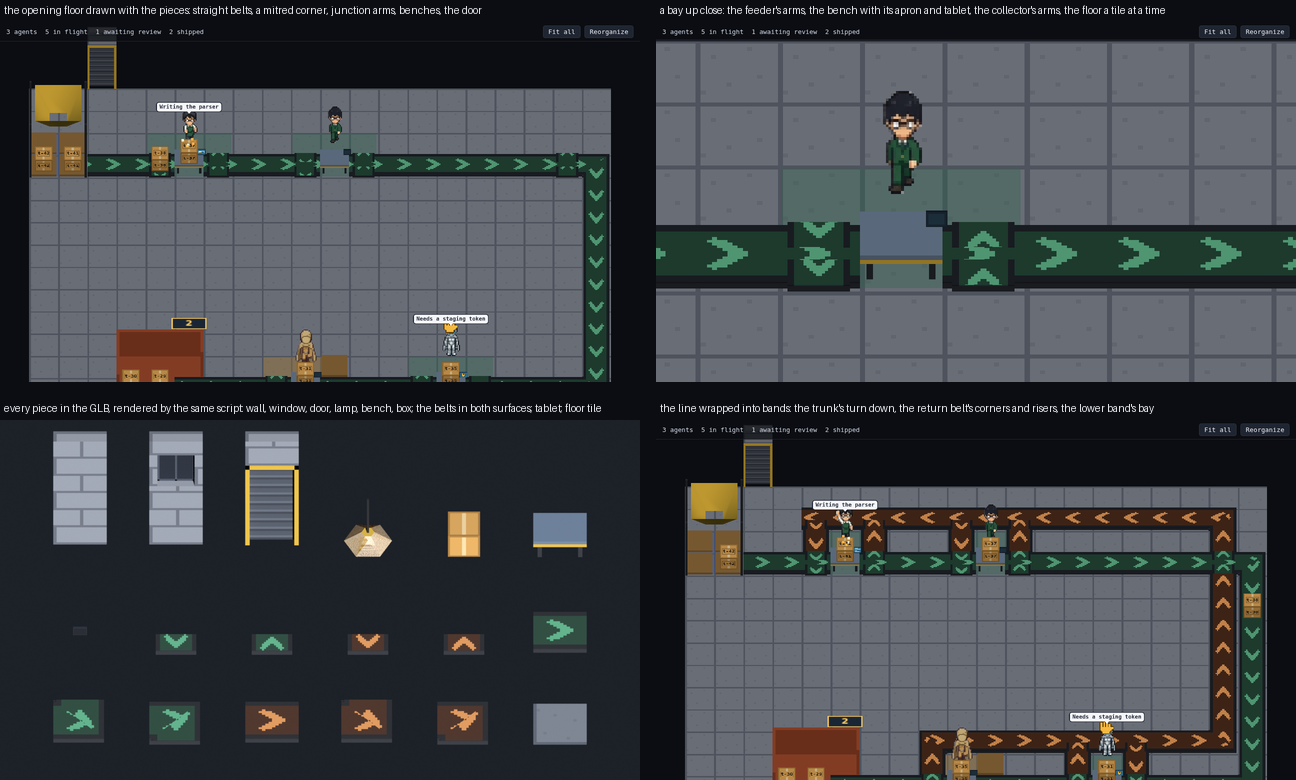
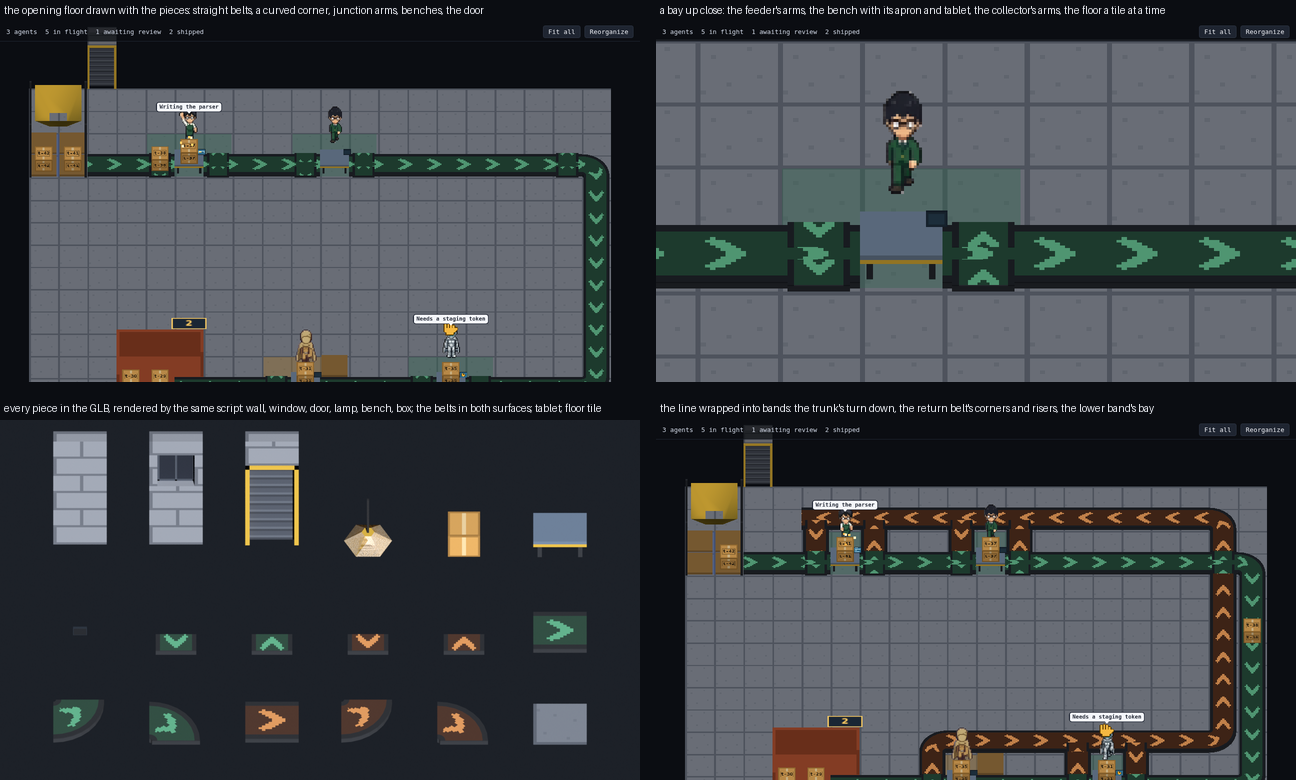
Corners curve (#13)
The corner belt pieces turn about the tile's inner corner as a quarter
circle instead of a mitred square: the slab, the rims and the surface
follow the curve and the chevrons fan across it, meeting the straights at
the tile's edges as before. Rebuilt pieces.glb, with the assets list and
the milestone picture updated to match.

diff --git a/tools/blender/build_pieces.py b/tools/blender/build_pieces.py
@@ -248,33 +248,54 @@ def belt_straight(name, mats, surface):
 
 
 def belt_corner(name, mats, surface, turn):
-    """A mitred turn: in along +x, out toward -z for a left turn, +z for a right one, the chevrons turning at the diagonal."""
+    """A quarter turn about the tile's inner corner: in along +x, curving to -z for a left turn, +z for a right one. The slab, the rims and the surface follow the curve, the chevrons fanning out across it."""
     s = 1 if turn == "left" else -1
     piece = Piece(name)
+    steps = 8
+    inner, outer = 0.05, 0.95
+    body_top, rim_top = BELT_H - 0.02, BELT_H
 
-    def p(x, y, z):
-        return (x, y, s * z)
+    def at(r, i, y):
+        """The point r from the inner corner, i steps into the turn, at height y."""
+        a = (math.pi / 2) * i / steps
+        return (-0.5 + r * math.sin(a), y, s * (-0.5 + r * math.cos(a)))
 
-    def quad(points, outward, material, uvs=None):
-        piece.face([p(*pt) for pt in points], (outward[0], outward[1], s * outward[2]), material, uvs)
+    def radial(i, sign):
+        """The direction out of the turn, or into it for -1, midway through step i."""
+        a = (math.pi / 2) * (i + 0.5) / steps
+        return (sign * math.sin(a), 0, s * sign * math.cos(a))
 
-    def box(x0, x1, y0, y1, z0, z1, material):
-        piece.box(x0, x1, y0, y1, min(s * z0, s * z1), max(s * z0, s * z1), material)
+    def ring(r0, r1, y, up, material, uv=None):
+        """A flat ring between two radii at one height, one quad a step, facing up or down."""
+        for i in range(steps):
+            points = [at(r0, i, y), at(r1, i, y), at(r1, i + 1, y), at(r0, i + 1, y)]
+            uvs = [uv(i, r0), uv(i, r1), uv(i + 1, r1), uv(i + 1, r0)] if uv else None
+            piece.face(points, (0, up, 0), material, uvs)
 
-    box(-0.5, 0.45, 0, BELT_H - 0.02, -0.5, 0.45, mats["dark-steel"])
-    # The outer rim runs along the in leg's outer side and up the out leg's outer side; the inner rim meets at the inner corner.
-    box(-0.5, 0.35, BELT_H - 0.02, BELT_H, 0.35, 0.45, mats["rim"])
-    box(0.35, 0.45, BELT_H - 0.02, BELT_H, -0.5, 0.45, mats["rim"])
-    box(-0.5, -0.35, BELT_H - 0.02, BELT_H, -0.45, -0.35, mats["rim"])
-    box(-0.45, -0.35, BELT_H - 0.02, BELT_H, -0.5, -0.45, mats["rim"])
-    y = BELT_H
-    # The in leg up to the mitre, the two halves of the mitred square, and the out leg from it. Along the belt's
-    # middle u runs 0 to 1 as on a straight: along +x on the in leg's half, along -z on the out leg's, so the
-    # chevrons fold at the diagonal, short along the inner edge and long along the outer.
-    quad([(-0.5, y, -0.35), (-0.35, y, -0.35), (-0.35, y, 0.35), (-0.5, y, 0.35)], (0, 1, 0), surface, [(0, 0), (0.15, 0), (0.15, 1), (0, 1)])
-    quad([(-0.35, y, -0.35), (-0.35, y, 0.35), (0.35, y, 0.35)], (0, 1, 0), surface, [(0.15, 0), (0.15, 1), (0.85, 1)])
-    quad([(-0.35, y, -0.35), (0.35, y, 0.35), (0.35, y, -0.35)], (0, 1, 0), surface, [(0.85, 0), (0.15, 1), (0.85, 1)])
-    quad([(-0.35, y, -0.35), (0.35, y, -0.35), (0.35, y, -0.5), (-0.35, y, -0.5)], (0, 1, 0), surface, [(0.85, 0), (0.85, 1), (1, 1), (1, 0)])
+    def wall(r, y0, y1, sign, material):
+        """A wall at one radius between two heights, facing out of the turn or into it."""
+        for i in range(steps):
+            piece.face([at(r, i, y0), at(r, i + 1, y0), at(r, i + 1, y1), at(r, i, y1)], radial(i, sign), material)
+
+    def ends(r0, r1, y0, y1, material):
+        """The two ends of a ring, in the tile's edges, where the next tiles meet it."""
+        piece.face([at(r0, 0, y0), at(r1, 0, y0), at(r1, 0, y1), at(r0, 0, y1)], (-1, 0, 0), material)
+        piece.face([at(r0, steps, y0), at(r1, steps, y0), at(r1, steps, y1), at(r0, steps, y1)], (0, 0, -s), material)
+
+    # The slab, from the inner corner out to where a straight's slab reaches.
+    ring(inner, outer, body_top, 1, mats["dark-steel"])
+    ring(inner, outer, 0, -1, mats["dark-steel"])
+    wall(outer, 0, body_top, 1, mats["dark-steel"])
+    wall(inner, 0, body_top, -1, mats["dark-steel"])
+    ends(inner, outer, 0, body_top, mats["dark-steel"])
+    # The rims along both sides, meeting a straight's at the tile's edges.
+    for r0, r1 in ((inner, 0.15), (0.85, outer)):
+        ring(r0, r1, rim_top, 1, mats["rim"])
+        wall(r1, body_top, rim_top, 1, mats["rim"])
+        wall(r0, body_top, rim_top, -1, mats["rim"])
+        ends(r0, r1, body_top, rim_top, mats["rim"])
+    # The surface between the rims: u runs 0 to 1 around the turn as it does along a straight, v across it from the inner side.
+    ring(0.15, 0.85, rim_top, 1, surface, lambda i, r: (i / steps, (r - 0.15) / 0.7))
     return piece
 
 

diff --git a/ASSETS.md b/ASSETS.md
@@ -26,7 +26,7 @@ has the terms.
 | Piece | What it is | Term |
 | --- | --- | --- |
 | `belt-straight` | One straight tile of belt | Belt, Trunk, Feeder, Collector; with `-return`, Return Belt, Drop, Riser |
-| `belt-corner-left`, `belt-corner-right` | A tile of belt turning a quarter to its left or its right, the surface mitred at the diagonal | Turn |
+| `belt-corner-left`, `belt-corner-right` | A tile of belt curving a quarter to its left or its right about the tile's inner corner, the chevrons fanning across the turn | Turn |
 | `belt-split` | The arm of a junction that boxes leave the belt by, laid over a straight on the side they leave toward | Junction |
 | `belt-merge` | The arm of a junction that boxes join the belt by, laid over a straight on the side they come from | Junction, Crossing |
 | `floor-tile` | One tile of concrete floor; the floor wears its texture once a tile | Factory |
